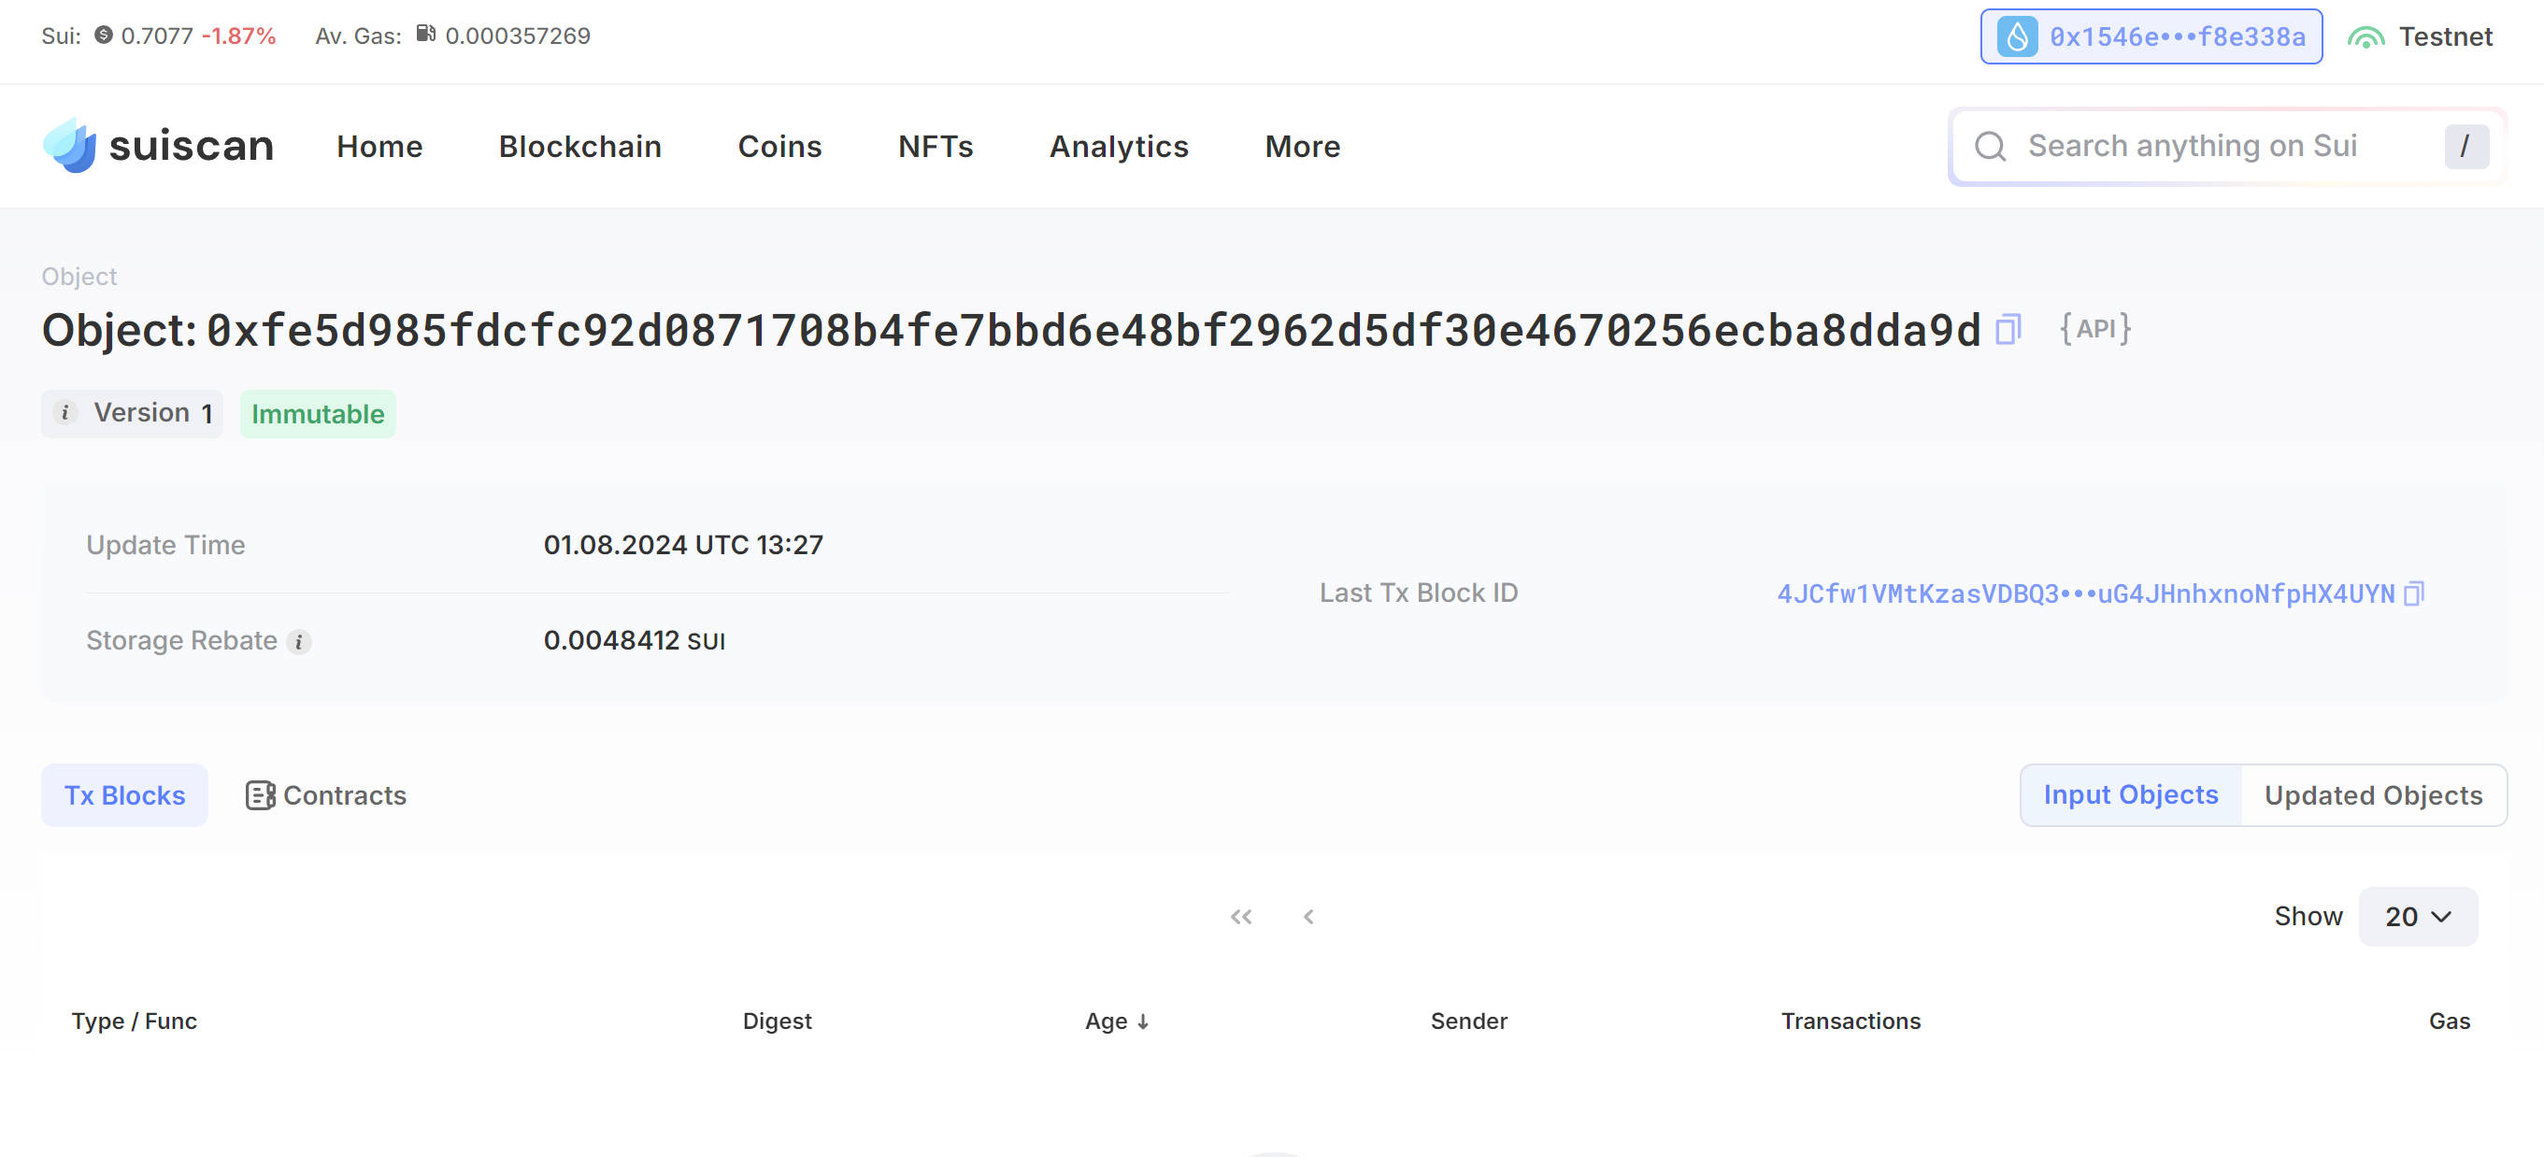
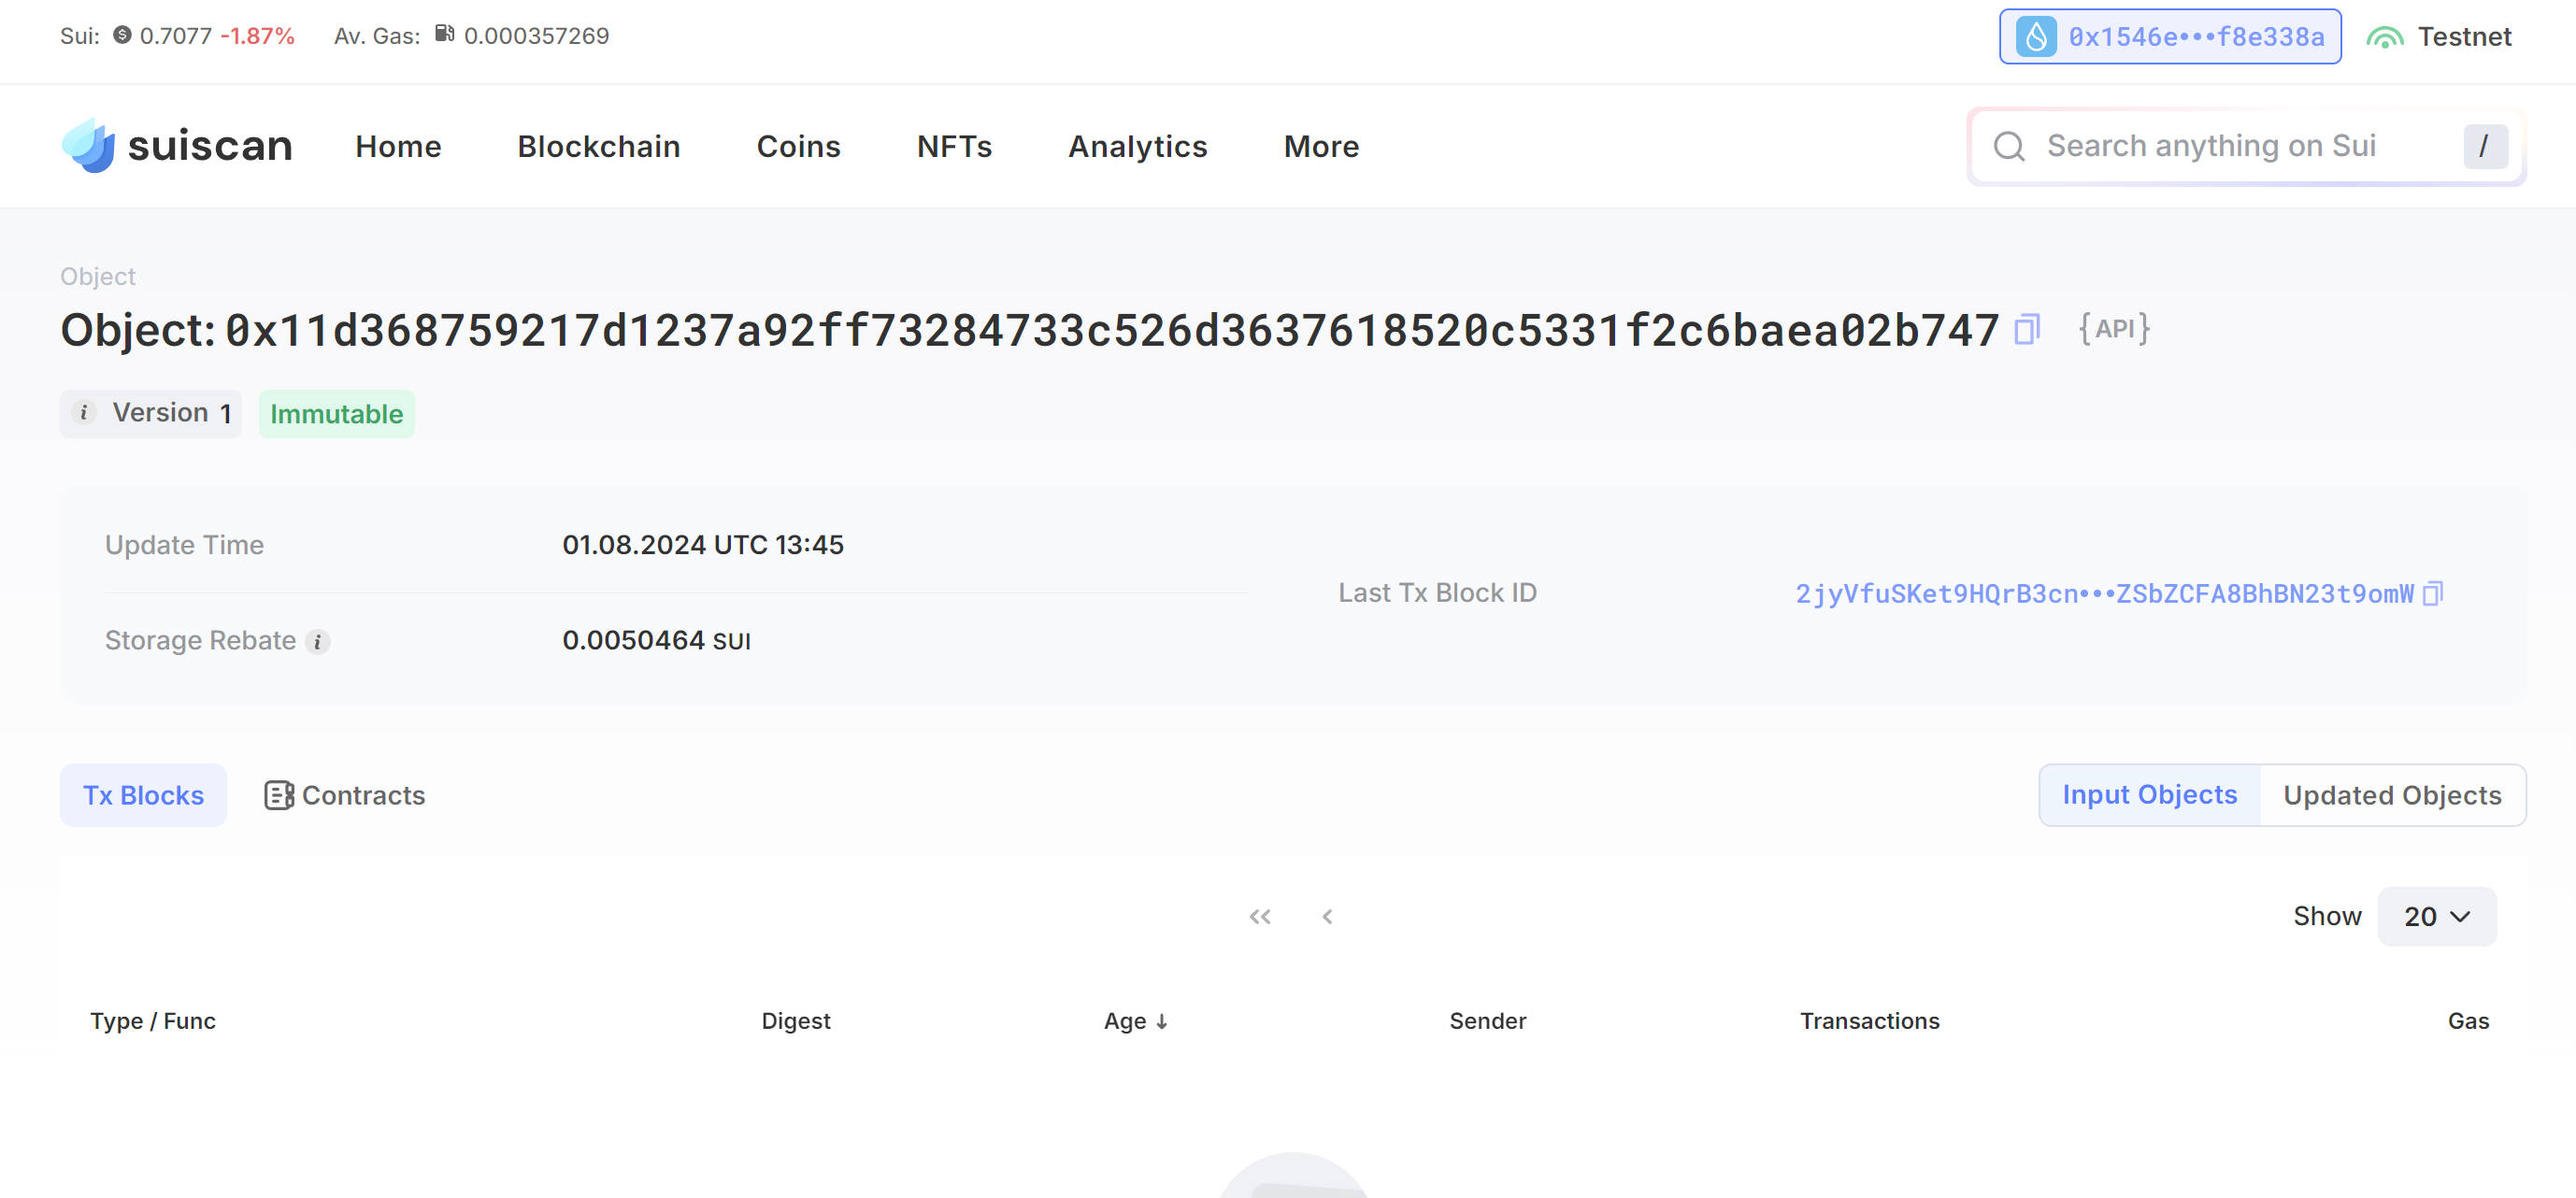
task1

diff --git a/mover/HoneyLin/README.md b/mover/HoneyLin/README.md
@@ -1,5 +1,5 @@
 ## 基本信息
[2 lines of base64/hex data omitted]
 > 首次参与需要完成第一个任务注册好钱包地址才被合并，并且后续学习奖励会打入这个地址
 - github: `HoneyLin`
 
@@ -15,7 +15,7 @@
 ##   01 hello move  
 - [x] Sui cli version: sui 1.30.1-a4185da5659d
 - [x] Sui钱包截图: ![Sui钱包截图](./scan.jpg)
-- [x] package id: 0xfe5d985fdcfc92d0871708b4fe7bbd6e48bf2962d5df30e4670256ecba8dda9d
+- [x] package id: 0x11d368759217d1237a92ff73284733c526d3637618520c5331f2c6baea02b747
 - [x] package id 在 scan上的查看截图:![Scan截图](./images/task1pid.jpg)
 
 ##   02 move coin
